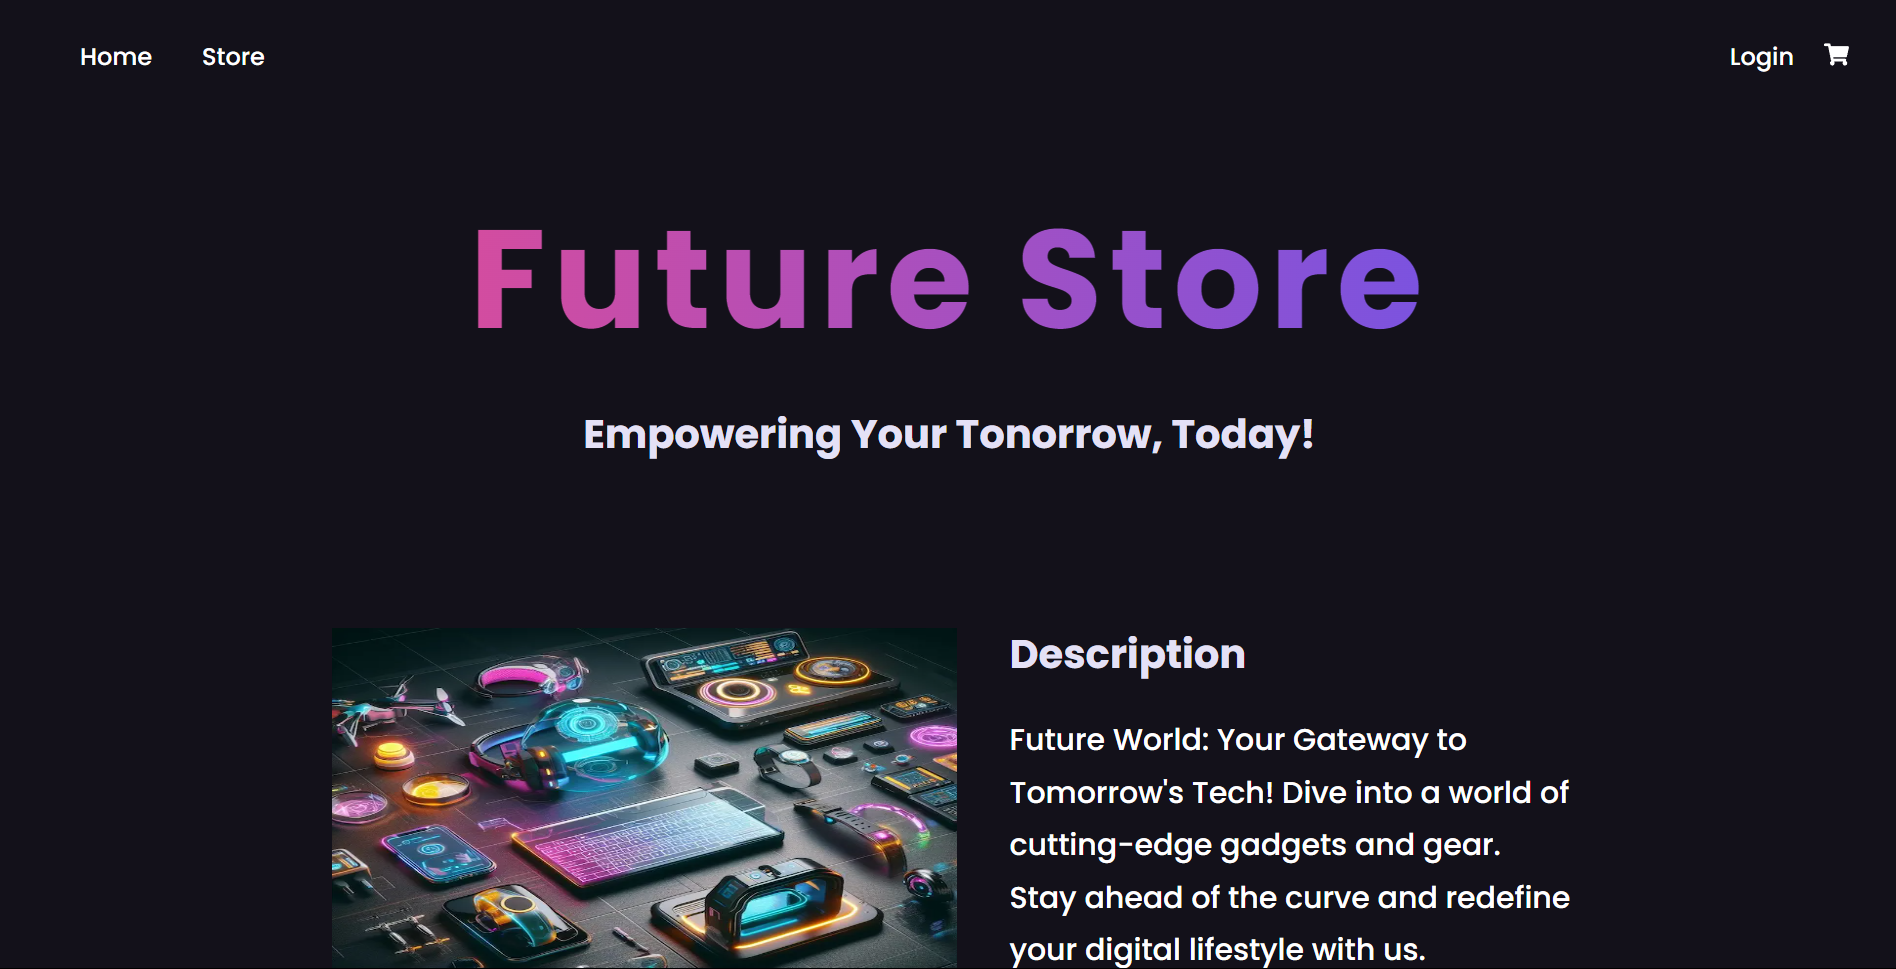
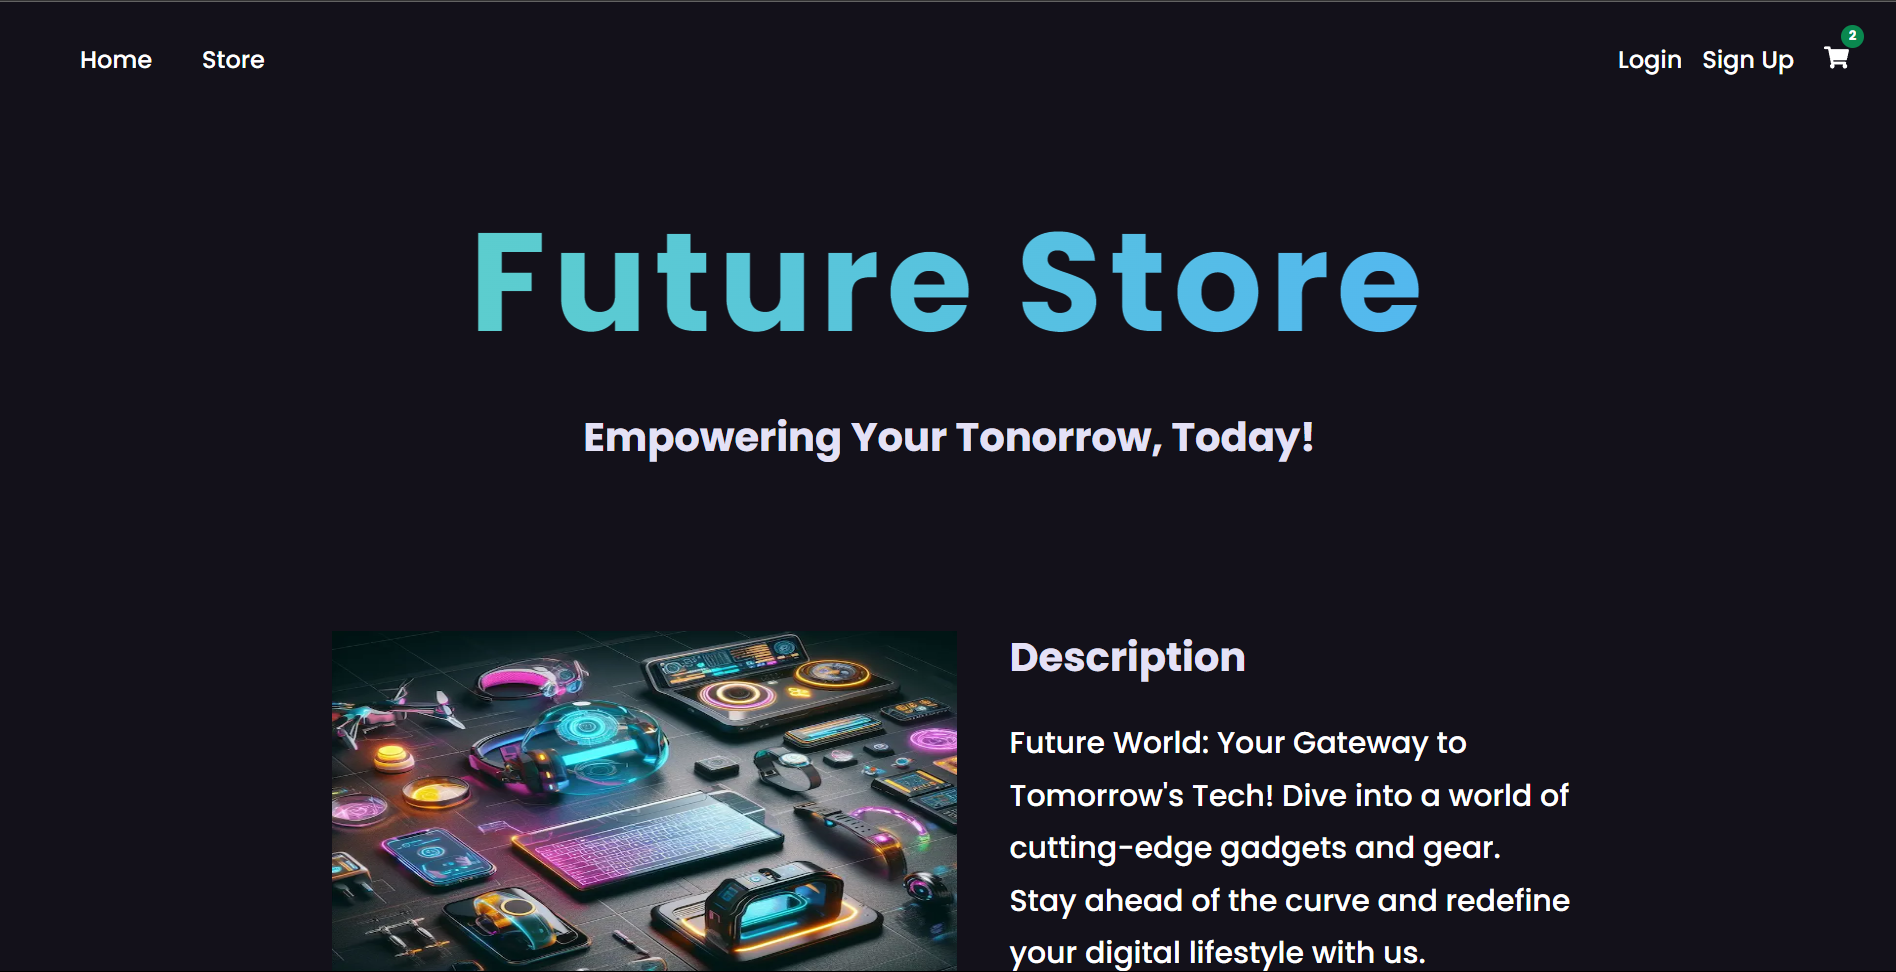
docs: update project description in README

diff --git a/src/app/store/StoreLayout.module.sass b/src/app/store/StoreLayout.module.sass
@@ -8,11 +8,12 @@
     padding: 0
     margin: 0
     display: flex
+    gap: 8px
     flex-flow: row wrap
     column-gap: 1rem
     margin-bottom: 2rem
   &__chip
-    background: linear-gradient(109.6deg, rgb(193, 98, 253) 11.2%, rgb(0, 49, 165) 91.1%)
+    background: linear-gradient(109.6deg, #4fadff 11.2%, #60d8be 91.1%)
     border-radius: 3rem
     padding: 0.5rem 1rem
     text-decoration: none

diff --git a/src/components/shared/Header/Header.tsx b/src/components/shared/Header/Header.tsx
@@ -26,7 +26,10 @@ export const Header = async () => {
         {customer?.firstName ? (
           <Link href="/my-account">Hola! {customer.firstName}</Link>
         ) : (
-          <Link href="/login">Login</Link>
+          <>
+            <Link href="/login">Login</Link>
+            <Link href="/signup">Sign Up</Link>
+          </>
         )}
         <NoSSRShoppingCart />
       </div>

diff --git a/src/components/signup/NewAccountForm/NewAccountForm.module.sass b/src/components/signup/NewAccountForm/NewAccountForm.module.sass
@@ -5,8 +5,9 @@
   &__title
     font-size: 2rem
     font-weight: 700
+    text-align: center
     margin-bottom: 3rem
-    background-image: linear-gradient(270deg, #4f56ff, #ff4980)
+    background-image: linear-gradient(270deg, #4fadff, #60d8be)
     background-clip: text
     -webkit-text-fill-color: transparent
   &__form

diff --git a/src/app/my-account/@userInfo/page.tsx b/src/app/my-account/@userInfo/page.tsx
@@ -1,10 +1,9 @@
 import { validateAccessToken } from "app/utils/auth/validateAccessToken";
 
-export const dynamic = 'force-static'
+// export const dynamic = 'force-static'
 
 export default async function MyAccountPage() {
   const customer = await validateAccessToken();
-  console.log(customer)
 
   return (
     <div>

diff --git a/src/components/product/ProductView/ProductViewItemsOrder.module.sass b/src/components/product/ProductView/ProductViewItemsOrder.module.sass
@@ -42,7 +42,7 @@
     padding: 0.5rem 1rem
     border: none
     border-radius: 0.5rem
-    background: linear-gradient(109.6deg, rgb(193, 98, 253) 11.2%, rgb(0, 49, 165) 91.1%)
+    background: linear-gradient(109.6deg, #4fadff, #60d8be)
     font-weight: 700
     font-size: 1.2rem
     cursor: pointer

diff --git a/src/app/my-account/MyAccount.module.sass b/src/app/my-account/MyAccount.module.sass
@@ -3,7 +3,7 @@
   padding: 1.5rem
   max-width: 1080px
   &__title
-    background-image: linear-gradient(270deg, #4f56ff, #ff4980)
+    background-image: linear-gradient(109.6deg, #4fadff, #60d8be)
     background-clip: text
     -webkit-text-fill-color: transparent
     font-size: 3rem

diff --git a/src/components/chat/Chat.module.sass b/src/components/chat/Chat.module.sass
@@ -5,7 +5,7 @@
   margin: 0 auto
   padding: 2rem
   &__title
-    background-image: linear-gradient(270deg, #4f56ff, #ff4980)
+    background-image: linear-gradient(270deg, #4fadff, #60d8be)
     background-clip: text
     -webkit-text-fill-color: transparent
     font-size: 3rem

diff --git a/src/sass/_variables.sass b/src/sass/_variables.sass
@@ -2,5 +2,5 @@ $color-primary: #13111a
 $color-secondary: #e4e1f6
 $border-color: #302c3f
 $text-color: #fff
-$gradient: linear-gradient(270deg, #4f56ff, #ff4980)
-$main-contrast: #ff4980
+$gradient: linear-gradient(270deg, #4fadff, #60d8be)
+$main-contrast: #0a884f

diff --git a/src/components/home/Hero/Hero.module.sass b/src/components/home/Hero/Hero.module.sass
@@ -1,6 +1,6 @@
 .Hero
   & > h1
-    background-image: linear-gradient(270deg, #4f56ff, #ff4980)
+    background-image: linear-gradient(270deg, #4fadff, #60d8be)
     background-clip: text
     -webkit-text-fill-color: transparent
     font-size: 7rem

diff --git a/README.md b/README.md
@@ -1,9 +1,23 @@
 # Store Tech
 
-Tienda en linea integrada son Shopify para hacer pruebas con la api de shopify
+Tienda en linea usando NextJS 14 para hacer pruebas con la api de shopify
+
+### Tecnologias usadas:
+- NextJs
+- Reactjs
+- Sass
+- Graphql
+- Shopify
+- Api
+- API Gemini - Google IA
+- Zustand
 
 ![alt text](image.png)
-
+----
+![alt text](image-1.png)
+----
+![alt text](image-2.png)
+---
+![alt text](image-3.png)
 -----
-
-
+![alt text](image-4.png)
